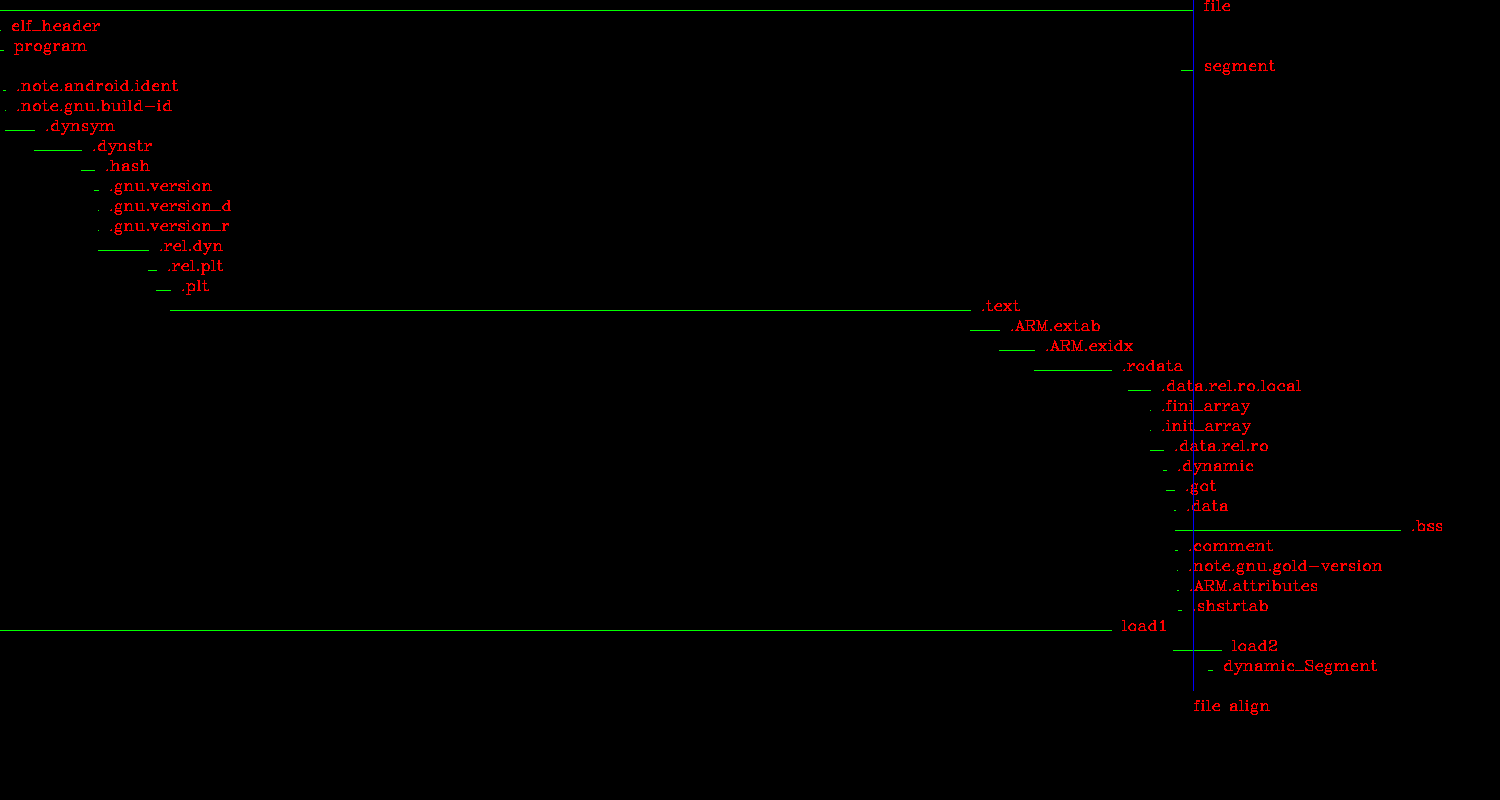
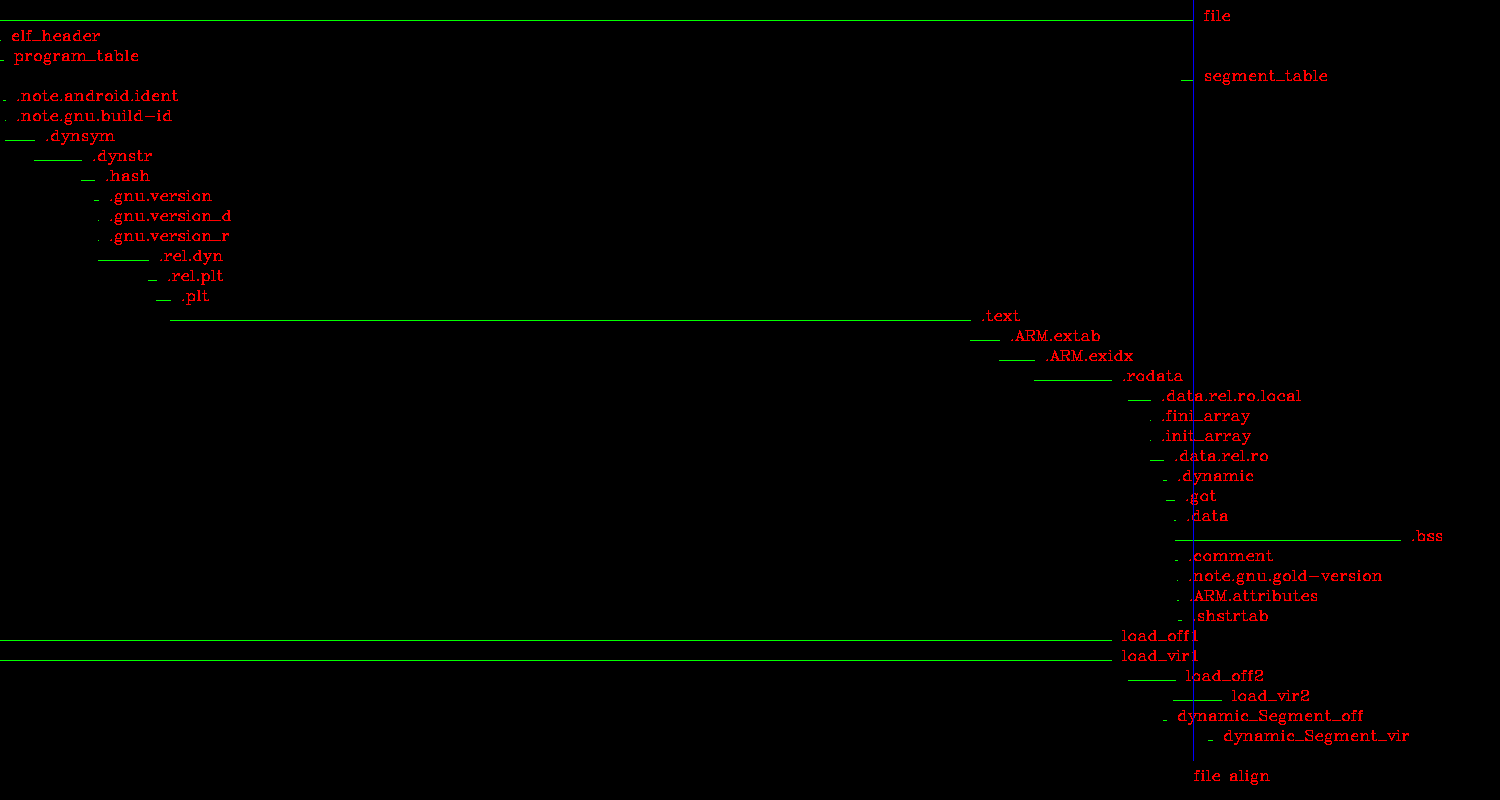
程序段区分文件偏移和虚拟地址

diff --git a/elf_parser.cpp b/elf_parser.cpp
@@ -183,9 +183,9 @@ void draw_load_view()
     
     printf("elf_header 0x%x 0x%x\n", 0, e->e_ehsize);
     
-    printf("program 0x%x 0x%x\n", e->e_phoff, e->e_phoff + e->e_phnum * e->e_phentsize);
+    printf("program_table 0x%x 0x%x\n", e->e_phoff, e->e_phoff + e->e_phnum * e->e_phentsize);
     
-    printf("segment 0x%x 0x%x\n", e->e_shoff, e->e_shoff + e->e_shnum * e->e_shentsize);
+    printf("segment_table 0x%x 0x%x\n", e->e_shoff, e->e_shoff + e->e_shnum * e->e_shentsize);
     
     Elf32_Shdr* s = get_shdr();
     const char* sh_str = get_sh_str();
@@ -199,12 +199,14 @@ void draw_load_view()
     {
         if(p[i].p_type == PT_LOAD)
         {
-            printf("load%d 0x%x 0x%x\n", i, p[i].p_vaddr, p[i].p_vaddr + p[i].p_filesz);
+            printf("load_off%d 0x%x 0x%x\n", i, p[i].p_offset, p[i].p_offset + p[i].p_filesz);
+            printf("load_vir%d 0x%x 0x%x\n", i, p[i].p_vaddr, p[i].p_vaddr + p[i].p_memsz);
         }
         
-                if(p[i].p_type == PT_DYNAMIC)
+        if(p[i].p_type == PT_DYNAMIC)
         {
-            printf("dynamic_Segment 0x%x 0x%x\n", p[i].p_vaddr, p[i].p_vaddr + p[i].p_filesz);
+            printf("dynamic_Segment_off 0x%x 0x%x\n", p[i].p_offset, p[i].p_offset + p[i].p_filesz);
+            printf("dynamic_Segment_vir 0x%x 0x%x\n", p[i].p_vaddr, p[i].p_vaddr + p[i].p_memsz);
         }
     }
 }

diff --git a/draw_views.py b/draw_views.py
@@ -7,6 +7,7 @@ img_x=1500
 img_y=800
 white=100
 view_size=0
+line_width=20
 
 def init_view_size(data):
     global view_size
@@ -20,7 +21,7 @@ def transform_line_size(s):
     return int(s/(view_size/(img_x-white)))
 
 def create_img(data):
-    x=img_y#len(data)*25
+    x=(len(data)+3)*line_width #img_y
     y=img_x
     z=3
     img = np.zeros((x, y, z), np.uint8)
@@ -64,7 +65,7 @@ def getData():
 lines = getData()
 init_view_size(lines)
 img = create_img(lines)
-i=10
+i=line_width
 
 for line in lines:
     print(line[0], line[1], line[2])
@@ -72,14 +73,14 @@ for line in lines:
     ly=transform_line_size(int(line[2], 16))
     draw_line(img, (lx,i), (ly,i))
     draw_text(img, line[0], ly+10, i)
-    i=i+20
+    i=i+line_width
 
 #与文件对齐线
 line=lines[0]
 lx=transform_line_size(int(line[1], 16))
 ly=transform_line_size(int(line[2], 16))
 draw_line(img, (ly,0), (ly, i), point_color = (255, 0, 0))
-draw_text(img, 'file align', ly, i+20)
+draw_text(img, 'file align', ly, i+line_width)
 
 #show_img(img)
 cv.imwrite('file_view.png', img)
